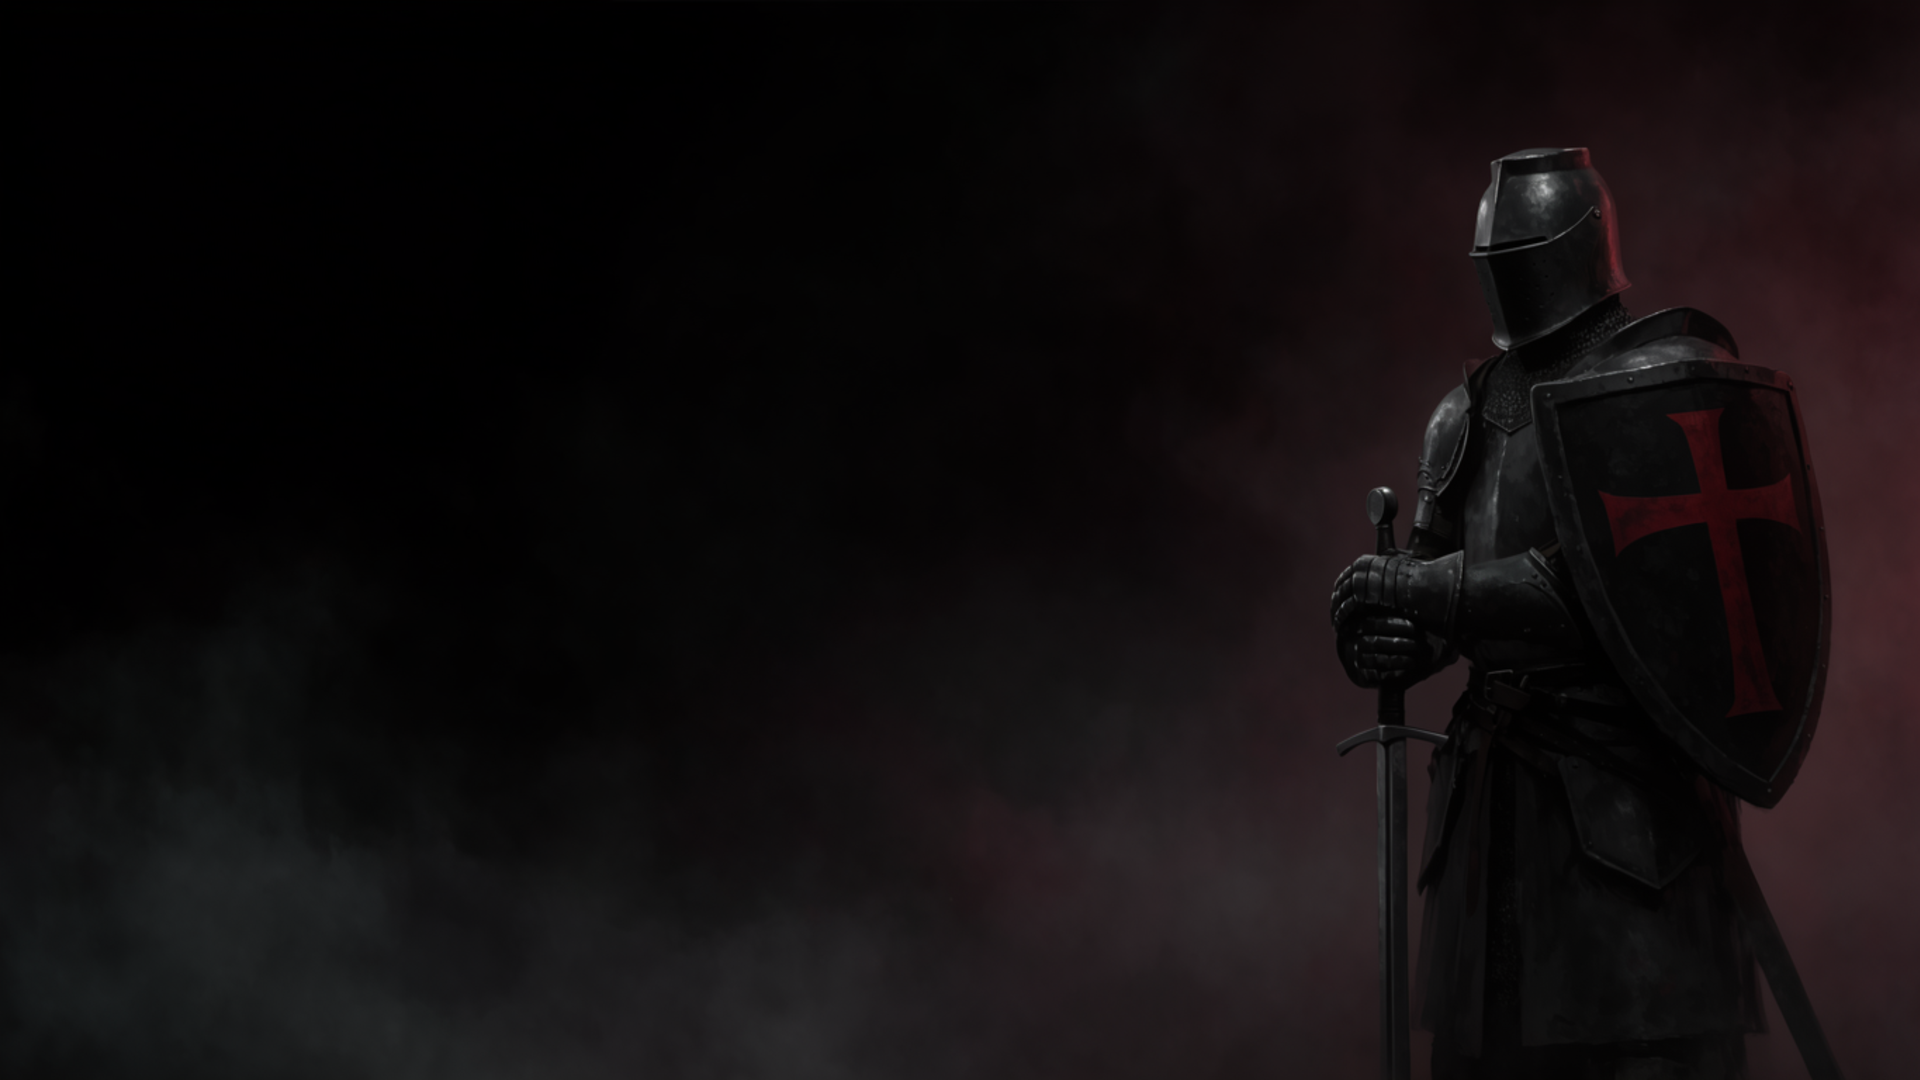
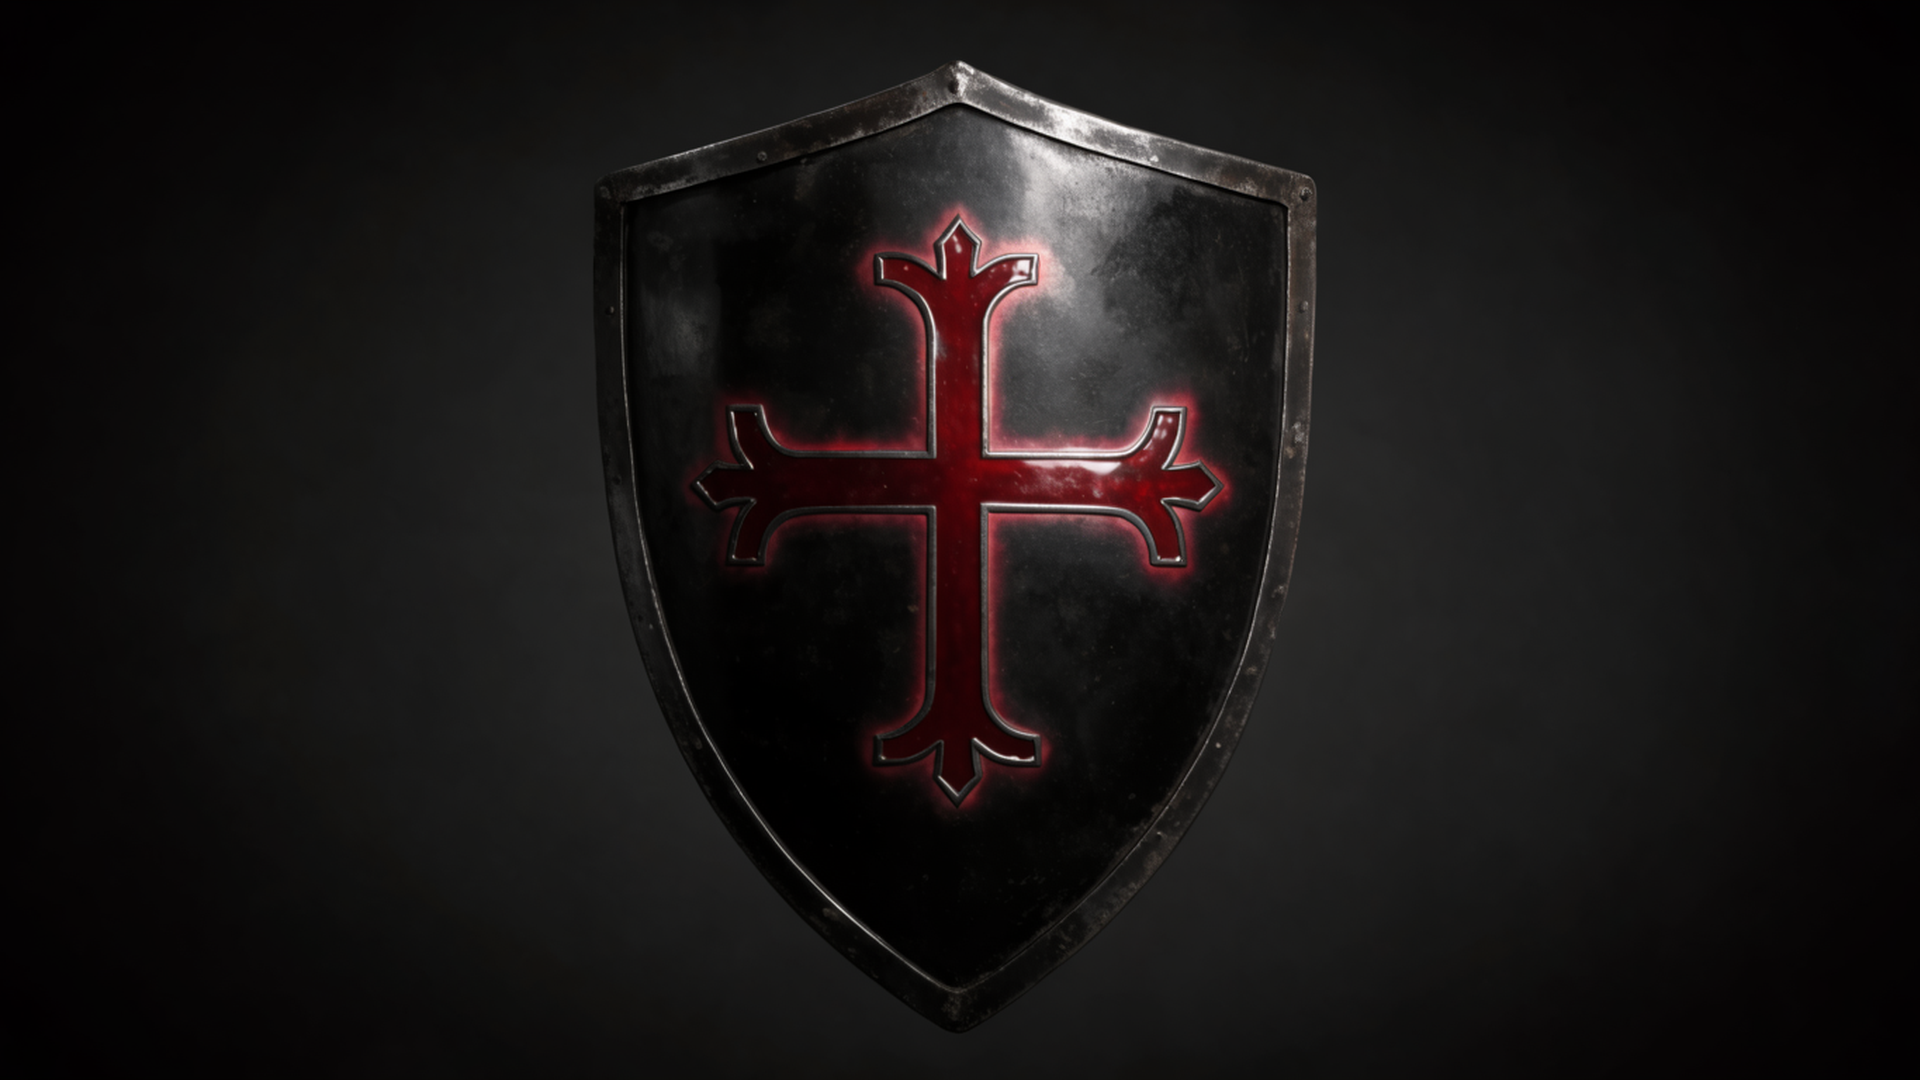
Reforge the cross: single cross potent art, red Chromium toolbar, NTP override ext
- blackshield art: one large cross potent, no quadrant crosses (all sizes)
- chromium theme: toolbar blood-red [193,18,31], frame blackened steel
- add blackshield-ntp chrome_url_overrides extension (staged)
- kdeglobals: Obsidian-Red icons
- add taskbar kiteshield asset

Made by synth with synthclaw

diff --git a/configs/browsers/chromium/blackshield-ntp/newtab.html b/configs/browsers/chromium/blackshield-ntp/newtab.html
@@ -1,0 +1,73 @@
+<!DOCTYPE html>
+<html lang="en">
+<head>
+<meta charset="utf-8">
+<title>Blackshield</title>
+<style>
+  :root {
+    --bs-black: #070709;
+    --bs-steel: #26262e;
+    --bs-bone: #d8d3c8;
+    --bs-blood: #c1121f;
+    --bs-gold: #c9a227;
+  }
+  * { margin: 0; padding: 0; box-sizing: border-box; }
+  html, body { height: 100%; }
+  body {
+    background: var(--bs-black);
+    display: flex;
+    flex-direction: column;
+    align-items: center;
+    justify-content: center;
+    font-family: "EB Garamond", serif;
+    color: var(--bs-bone);
+    overflow: hidden;
+  }
+  .standard {
+    width: min(38vh, 340px);
+    height: auto;
+    filter: drop-shadow(0 0 28px rgba(193, 18, 31, 0.35));
+    user-select: none;
+    -webkit-user-drag: none;
+  }
+  form {
+    margin-top: 5vh;
+    width: min(560px, 72vw);
+    display: flex;
+  }
+  input[type="text"] {
+    flex: 1;
+    background: #0d0d11;
+    border: 1px solid var(--bs-steel);
+    border-bottom: 2px solid var(--bs-blood);
+    border-radius: 4px;
+    padding: 12px 16px;
+    font-family: inherit;
+    font-size: 17px;
+    color: var(--bs-bone);
+    outline: none;
+    transition: border-color 0.15s ease, box-shadow 0.15s ease;
+  }
+  input[type="text"]::placeholder { color: #6b6f78; font-style: italic; }
+  input[type="text"]:focus {
+    border-color: var(--bs-blood);
+    box-shadow: 0 0 14px rgba(193, 18, 31, 0.35);
+  }
+  .motto {
+    margin-top: 2.2vh;
+    font-size: 13px;
+    letter-spacing: 0.35em;
+    text-transform: uppercase;
+    color: #565a64;
+  }
+  .motto em { color: var(--bs-blood); font-style: normal; }
+</style>
+</head>
+<body>
+  <img class="standard" src="shield.png" alt="Blackshield standard">
+  <form action="https://www.google.com/search" method="get">
+    <input type="text" name="q" placeholder="Raise the standard. Ask." autofocus autocomplete="off">
+  </form>
+  <div class="motto">The shield holds <em>·</em> Caerleon after dark</div>
+</body>
+</html>
